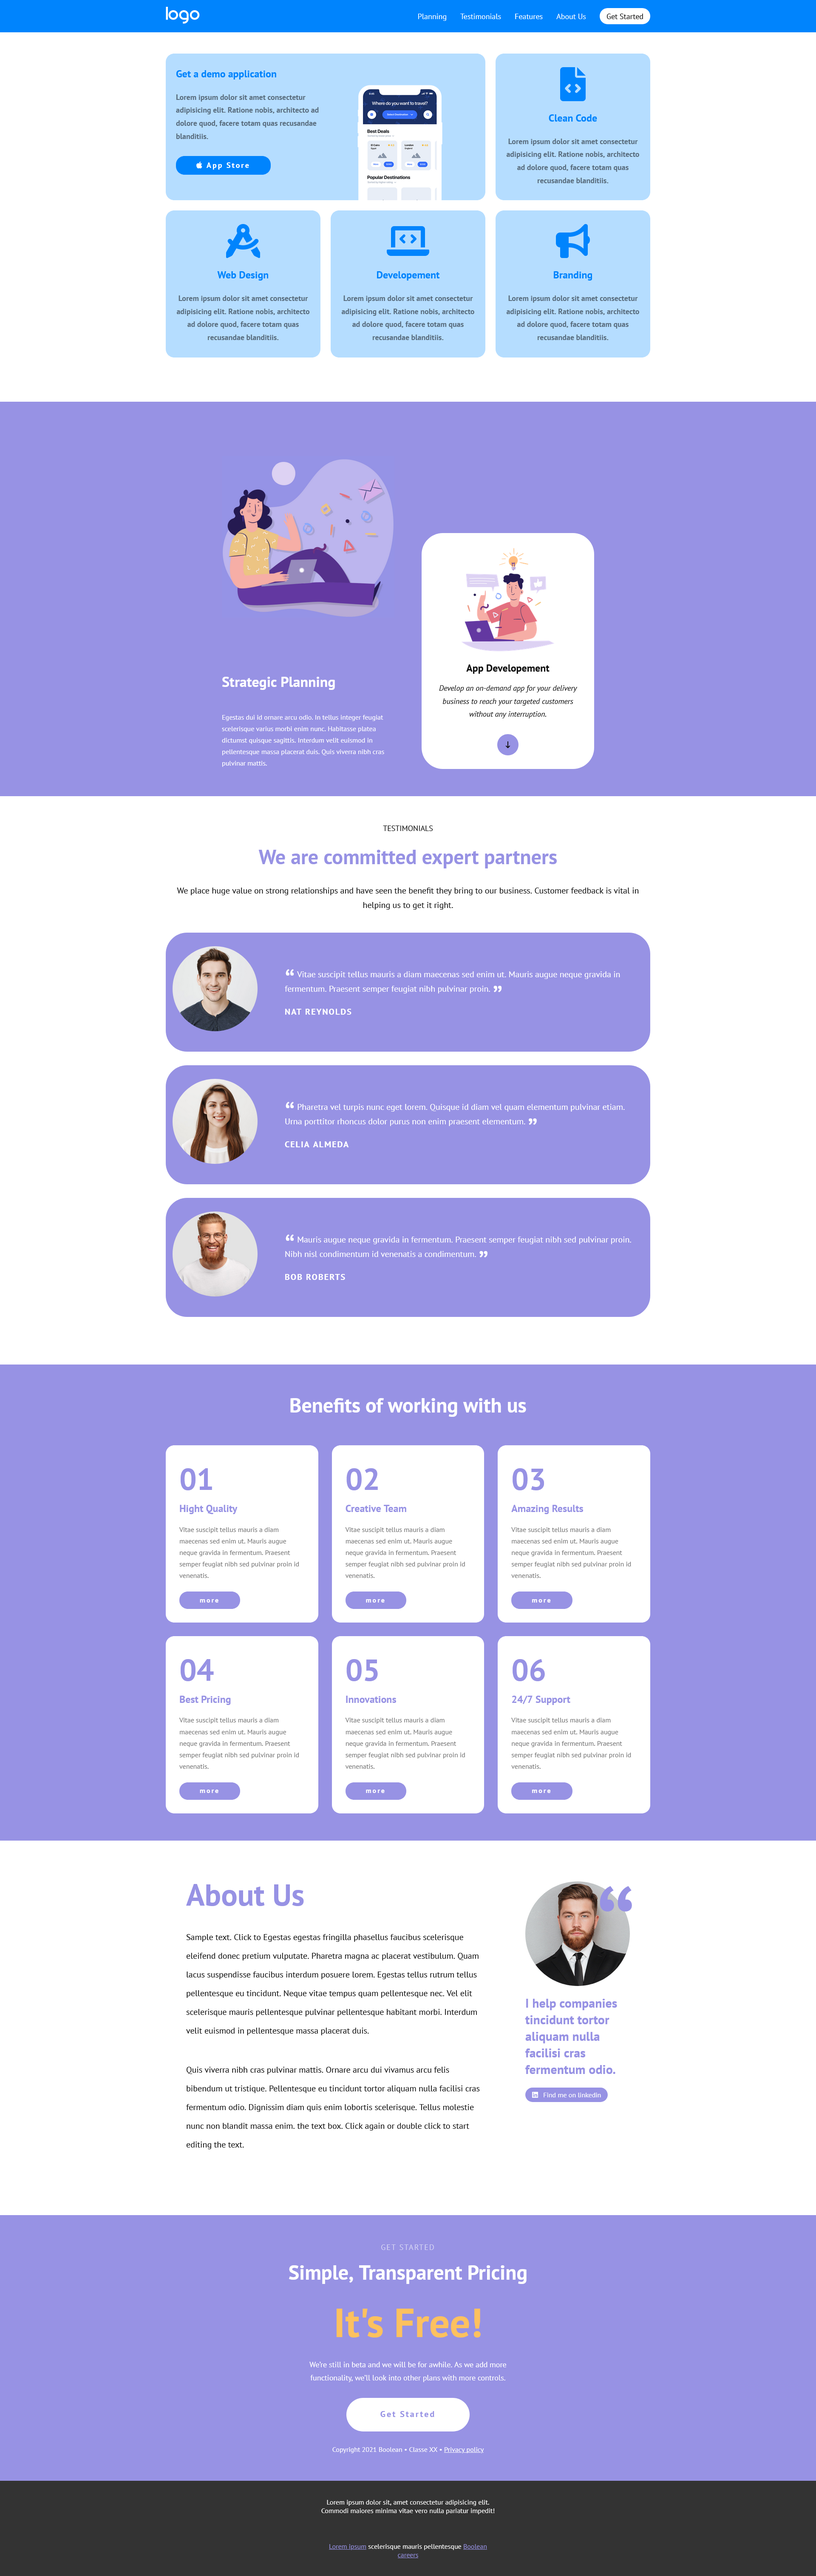
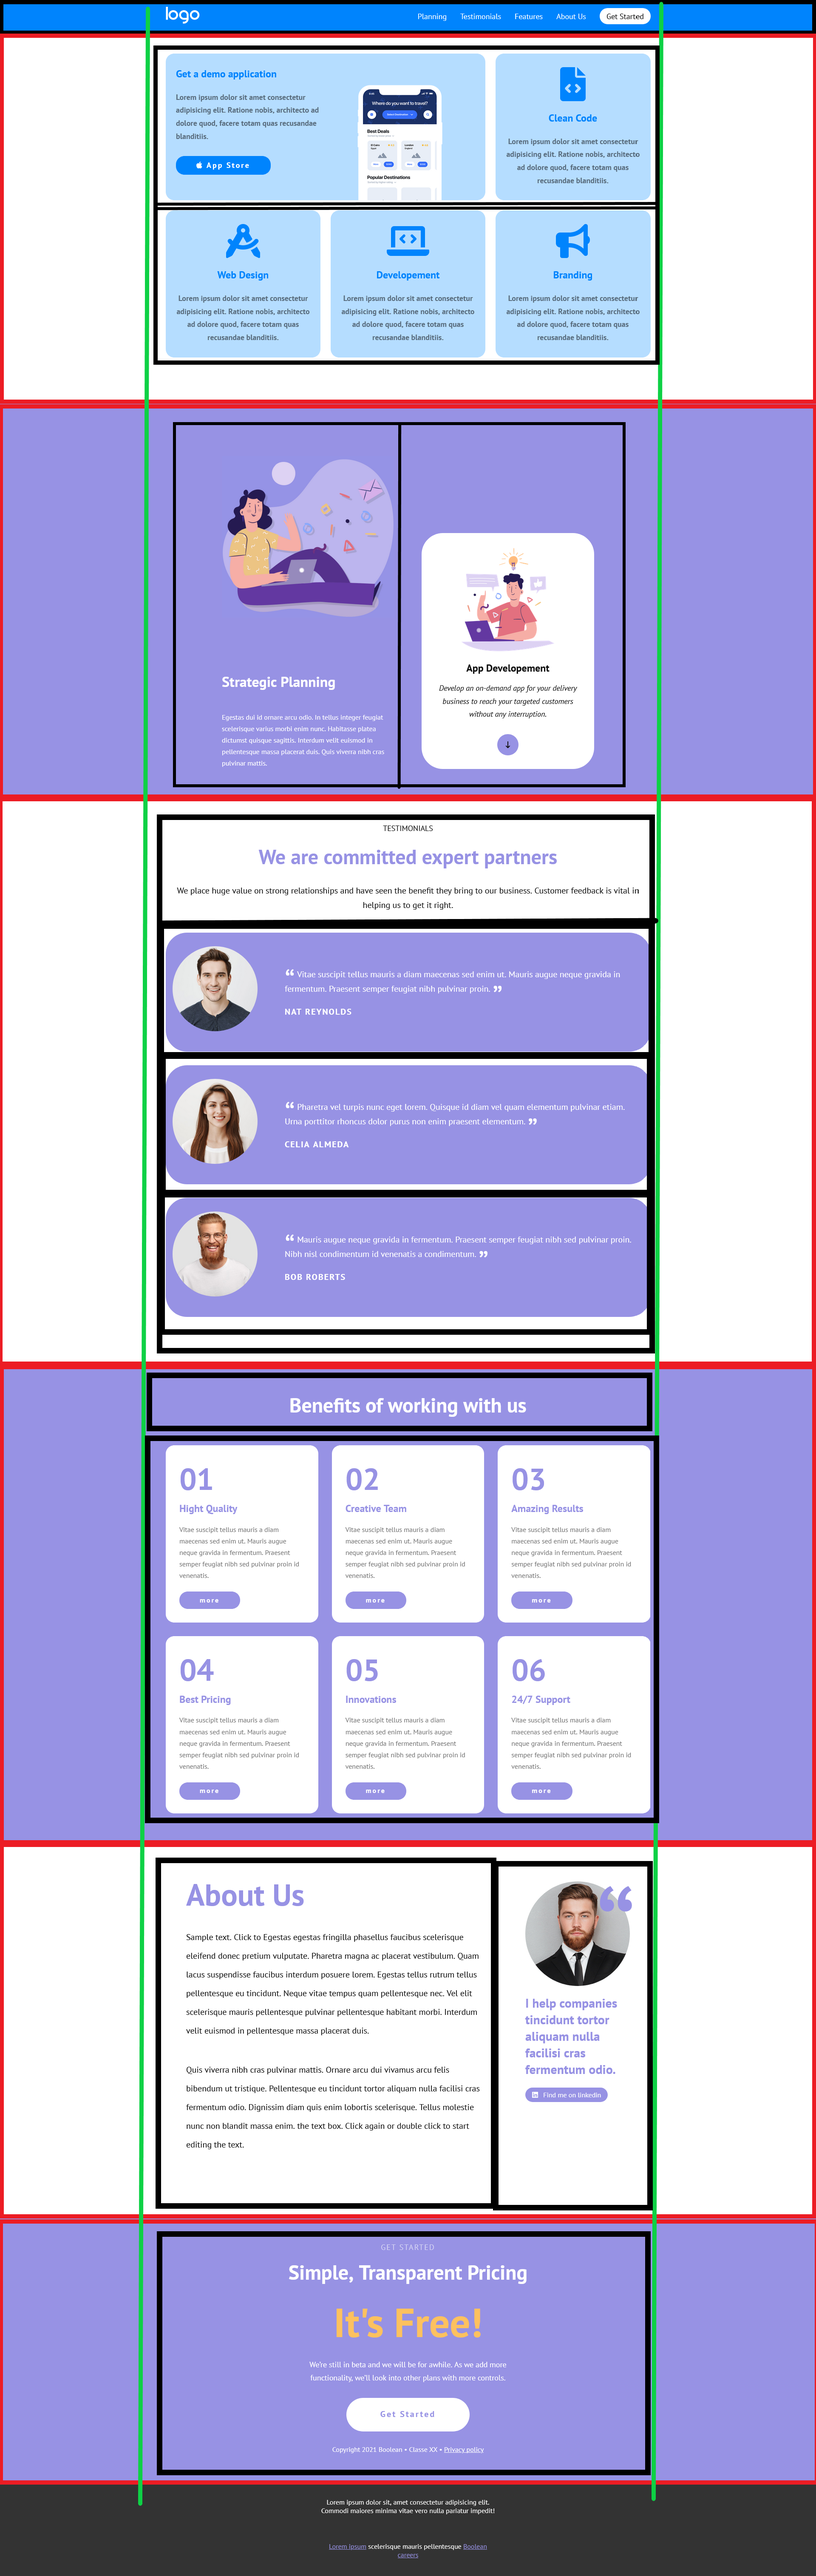
add:layout

Changed region(s): [[0.0, 0.0, 1.0, 0.9668]]

diff --git a/css/style.css b/css/style.css
@@ -1,3 +1,24 @@
+/*                                 )
+                            )      ((     (
+                           (        ))     )
+                    )       )      //     (
+               _   (        __    (     ~->>
+        ,-----' |__,_~~___<'__`)-~__--__-~->> <
+        | //  : | -__   ~__ o)____)),__ - '> >-  >
+        | //  : |- \_ \ -\_\ -\ \ \ ~\_  \ ->> - ,  >>
+        | //  : |_~_\ -\__\ \~'\ \ \, \__ . -<-  >>
+        `-----._| `  -__`-- - ~~ -- ` --~> >
+         _/___\_    //)_`//  | ||]
+   _____[_______]_[~~-_ (.L_/  ||
+  [____________________]' `\_,/'/
+    ||| /          |||  ,___,'./
+    ||| \          |||,'______|
+    ||| /          /|| I==||
+    ||| \       __/_||  __||__
+-----||-/------`-._/||-o--o---o---
+  ~~~~~'*/
+
+
 /*RESET*/
 * {
     padding: 0;
@@ -49,21 +70,21 @@ header {
 .logo{
     margin-left: 20px;
 }
-ul {
+.navbar ul {
     
     gap: 30px;
     margin-right: 30px;
     align-items: center;
     color: white;
 }
-ul li:last-child {
+.navbar ul li:last-child {
     background-color: white;
     padding: 0.5rem;
     border: 1px solid white;
     border-radius: 20px;
     color: black;
 }
-ul li:last-child a{
+.navbar ul li:last-child a{
     text-decoration: none;
     color: inherit;
 }
@@ -144,14 +165,14 @@ ul li:last-child a{
     justify-content: center;
     align-items: center;
 }
-.wrapper-description .container{
+.wrapper-description .container {
     height: 800px;
     padding: 20px;
     /*debug*/
     border: 1px solid black;
     flex-direction: row;
 }
-.wrapper-description .container .column{
+.wrapper-description .container .column {
         height: auto;
         width: calc(100%/2);
        /*debug*/
@@ -161,8 +182,34 @@ ul li:last-child a{
                                 WRAPPER 3 - A title and a list of  the partners with a brief description 
 *****************************************************************************************************************************************/
 .wrapper-partners {
-    height:800px;
+    height:1000px;
+    justify-content: center;
+    align-items: center;}
+
+.wrapper-partners .container{
+    height: 800px;
+    padding: 10px;
+    /*debug*/
+    border: 1px solid black;
+    flex-direction: column;
 }
+
+/*titolo*/
+.wrapper-partners .container .title{
+    height: 25%;
+    /*debug*/
+    border: 1px solid black;
+}
+.partners{
+    height: 75%;
+}
+.partners>li{
+    width: 100%;
+    height: calc(100%/3);
+    /*debug*/
+    border: 1px solid black;
+}
+
 /* **************************************************************************************************************************************
                                 WRAPPER 4- A title and a cards layout showcasing the different benefits
 *****************************************************************************************************************************************/

diff --git a/index.html b/index.html
@@ -71,11 +71,25 @@
     <!-- *******************************************************************************************************************************************************************
                                                                 WRAPPER 3 - A title and a list of  the partners with a brief description
     ************************************************************************************************************************************************************************ -->
-        <div class="wrapper-partners white"></div>
+        <div class="wrapper-partners white flex">
+            <!-- contenitore del titolo e della lista -->
+            <div class="container fixedwidth flex">
+                <!-- TITOLO -->
+                <div class="title"></div>
+                <!-- LISTA -->
+                <ul class="partners">
+                    <li></li>
+                    <li></li>
+                    <li></li>
+                </ul>
+            </div>
+        </div>
     <!-- *******************************************************************************************************************************************************************
                                                                 WRAPPER 4- A title and a cards layout showcasing the different benefits 
     ************************************************************************************************************************************************************************ -->
-        <div class="wrapper-benefits purple"></div>
+        <div class="wrapper-benefits purple">
+            <div class="container fixedwidth flex"></div>
+        </div>
     <!-- *******************************************************************************************************************************************************************
                                                                 WRAPPER 5 - 2 columns with a description of the company and the profile of a rapresentative
     ************************************************************************************************************************************************************************ -->
